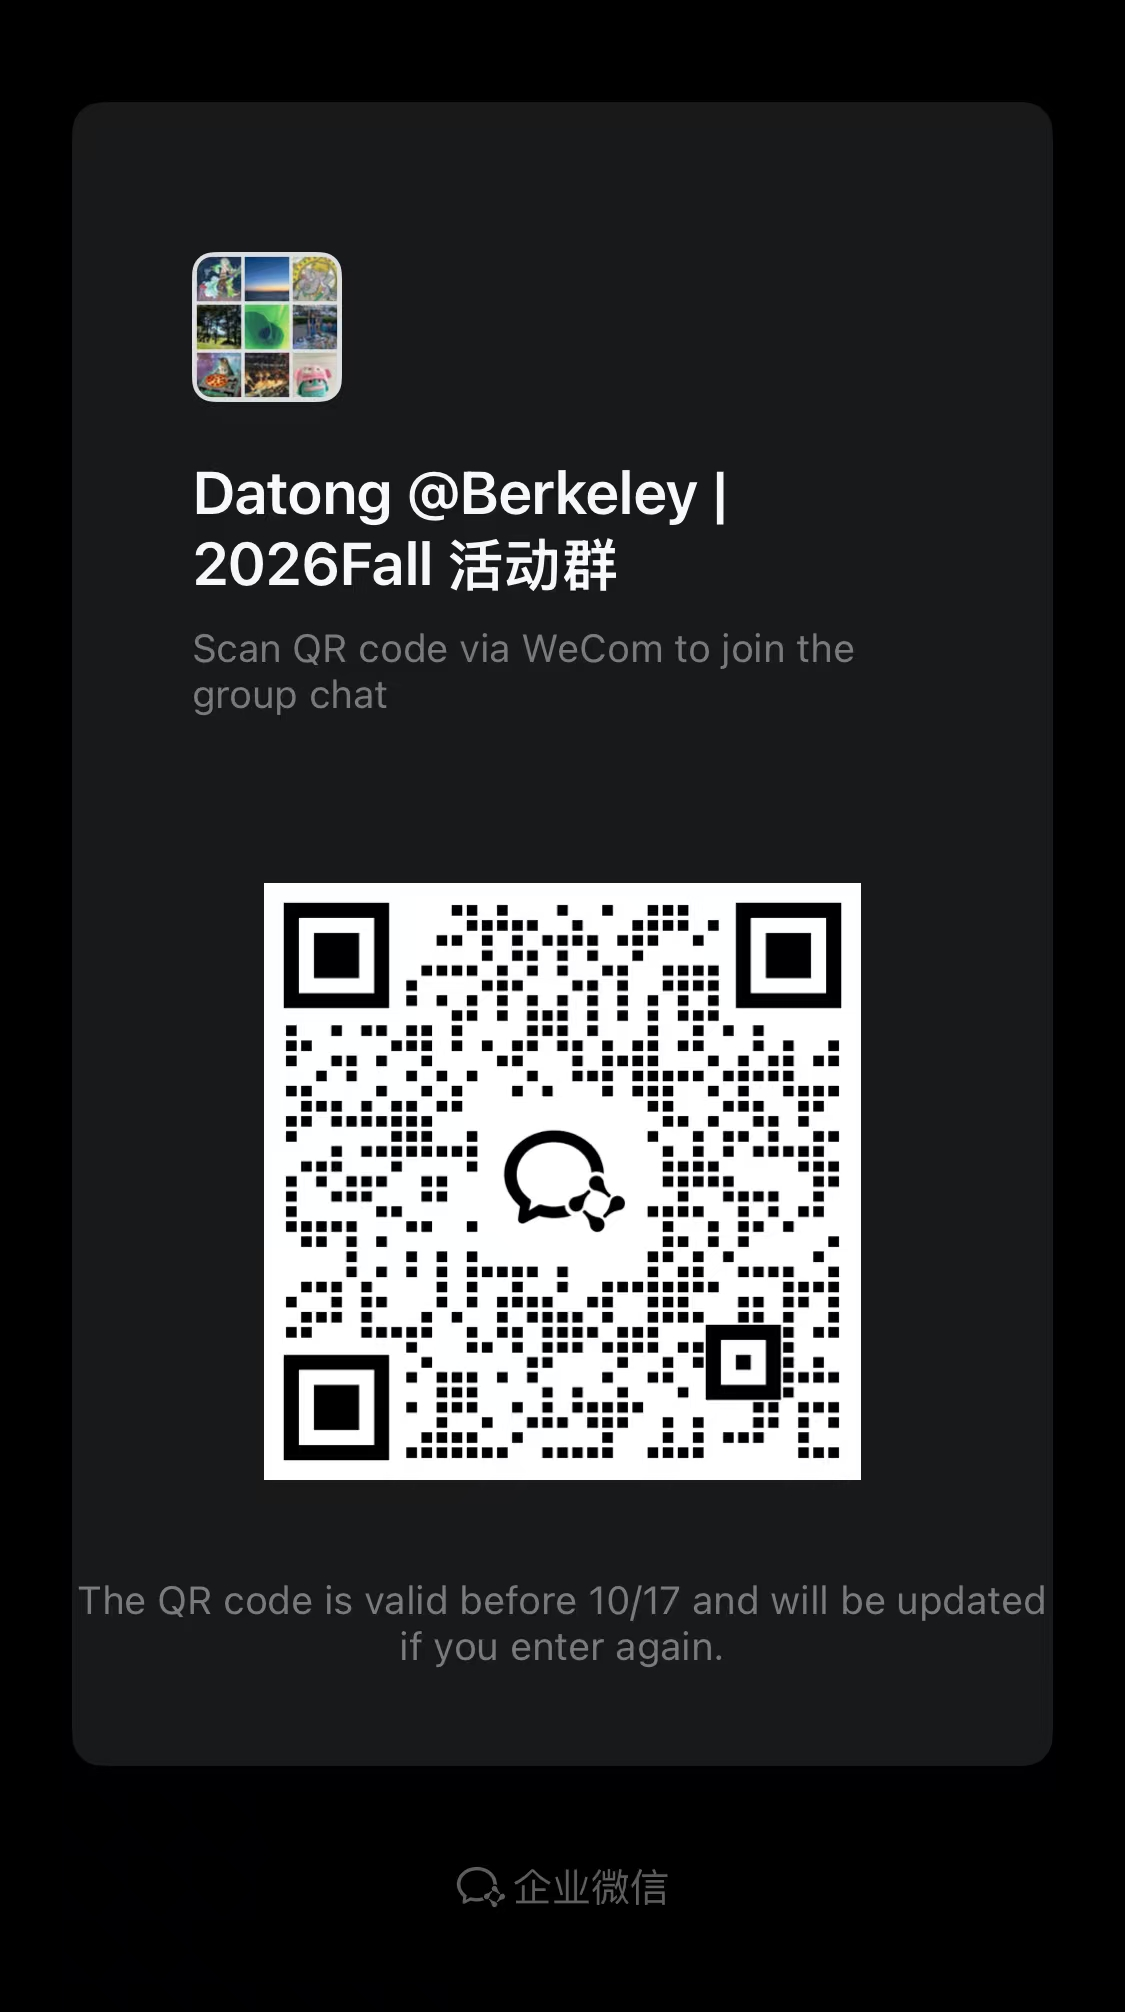
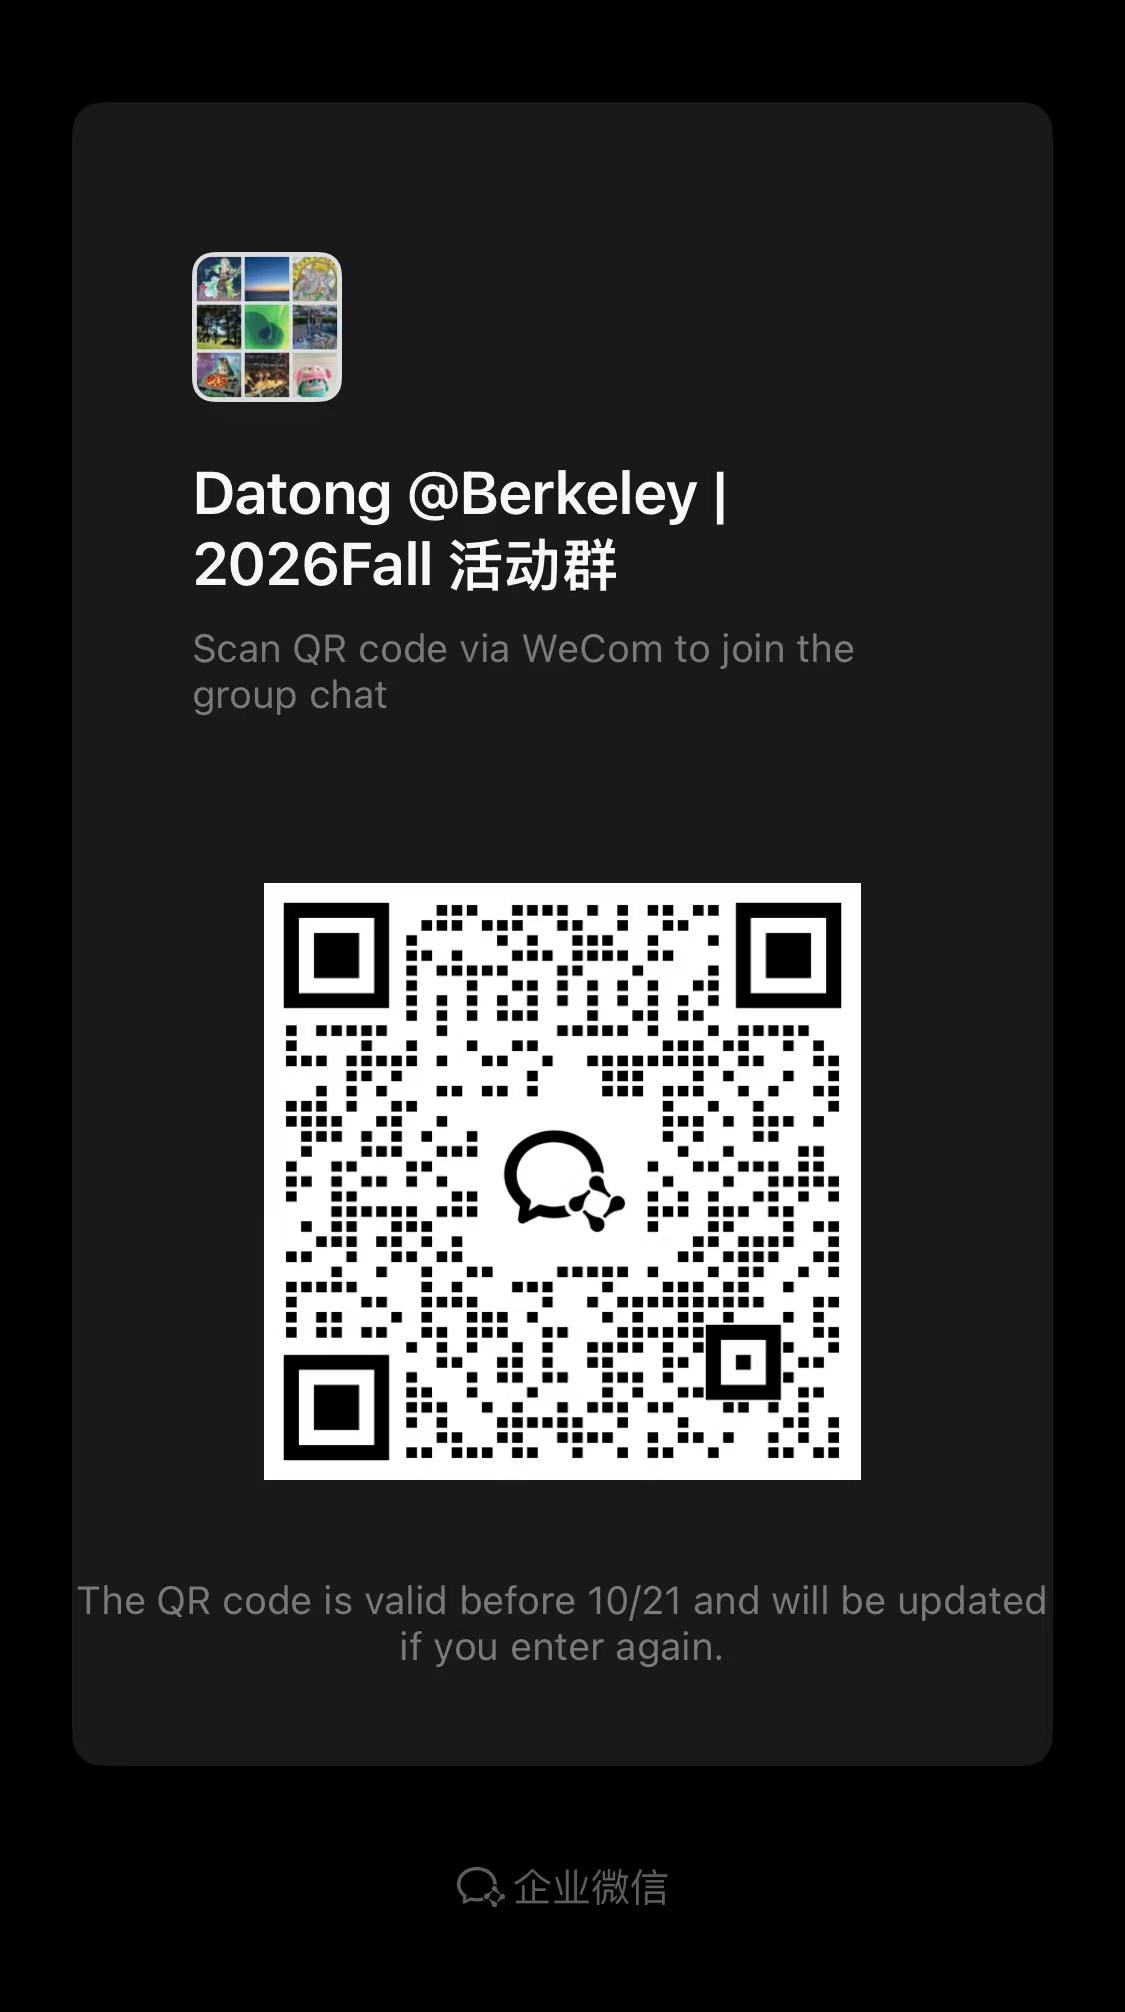
Update activity group QR code for October 21 expiry

Changed region(s): [[0.2489, 0.4314, 0.7467, 0.7396], [0.5289, 0.7704, 0.5911, 0.8012]]

diff --git a/index.html b/index.html
@@ -12,7 +12,7 @@
 		<link rel="preconnect" href="https://fonts.googleapis.com" />
 <link rel="preconnect" href="https://fonts.gstatic.com" crossorigin />
 		<link href="https://fonts.googleapis.com/css2?family=Cinzel:wght@600&family=Inter:wght@400;600&family=Noto+Serif+SC:wght@400;600&family=Source+Sans+3:wght@300;400;600&family=Source+Serif+4:wght@600&display=swap" rel="stylesheet" />
-<link rel="stylesheet" href="assets/css/main.css?v=20261010-cleanup" />
+<link rel="stylesheet" href="assets/css/main.css?v=20261014-cleanup" />
 		<noscript><link rel="stylesheet" href="assets/css/noscript.css" /></noscript>
 	</head>
 	<body class="is-preload"><div class="language-switch" aria-label="Language"><span lang="en" aria-current="true">EN</span><span aria-hidden="true">/</span><a href="zh.html" lang="zh-Hans">中文</a></div>
@@ -95,7 +95,7 @@
 </section>
 <section class="home-about" aria-labelledby="home-about-title"><div><p class="home-eyebrow">About Datong</p><h2 id="home-about-title">Different perspectives. Shared curiosity.</h2><p>We welcome undergraduates, graduate students, and researchers across disciplines, united by an interest in China and East Asia.</p><p>Our activities grow around members’ interests, creating space for critical inquiry and interdisciplinary learning.</p><a href="#about" class="home-text-link">About the society →</a></div></section><section class="home-connect" aria-labelledby="home-connect-title">
 <div><p class="home-eyebrow">Stay connected</p><h2 id="home-connect-title">Join the conversation.</h2><p>Receive event announcements and society updates by email.</p></div>
-<div class="home-connect-actions"><a href="https://forms.gle/zb6QiVZAaBfSrQTj8" target="_blank" rel="noopener noreferrer" class="button primary">Join the mailing list</a><a href="images/qr/qr-activity-group.jpg?v=20261010" target="_blank" rel="noopener noreferrer" class="home-text-link">Activity group · 活动群 ↗</a><a href="#contact" class="home-text-link">Contact Us →</a></div>
+<div class="home-connect-actions"><a href="https://forms.gle/zb6QiVZAaBfSrQTj8" target="_blank" rel="noopener noreferrer" class="button primary">Join the mailing list</a><a href="images/qr/qr-activity-group.jpg?v=20261014" target="_blank" rel="noopener noreferrer" class="home-text-link">Activity group · 活动群 ↗</a><a href="#contact" class="home-text-link">Contact Us →</a></div>
 </section>
 </article>
 <article id="resources">
@@ -427,12 +427,12 @@
 								<section class="qr-section">
 									<h3>活动群<span style="font-size:0.7rem;opacity:0.55;letter-spacing:0.1rem;margin-left:0.5rem;">DATONG · FALL 2026</span></h3>
 									<p class="qr-lead" data-zh="activity-intro">
-										Scan with WeCom to join the <strong>Datong 2026Fall Activity Group</strong> for event announcements and discussions. This QR code is valid before October 17; please return for an updated code from October 17.<br><br>
-										使用企业微信扫码加入 <strong>Datong 2026Fall 活动群</strong>，获取活动通知并参与交流。此二维码在 10 月 17 日前有效；之后请返回本页查看更新的二维码。
+										Scan with WeCom to join the <strong>Datong 2026Fall Activity Group</strong> for event announcements and discussions. This QR code is valid before October 21; please return for an updated code from October 21.<br><br>
+										使用企业微信扫码加入 <strong>Datong 2026Fall 活动群</strong>，获取活动通知并参与交流。此二维码在 10 月 21 日前有效；之后请返回本页查看更新的二维码。
 									</p>
 									<div class="qr-grid">
-										<a href="images/qr/qr-activity-group.jpg?v=20261010" target="_blank" rel="noopener" class="qr-card">
-											<div class="qr-img"><img loading="lazy" decoding="async" src="images/qr/qr-activity-group.jpg?v=20261010" alt="Datong 2026Fall 活动群企业微信二维码" /></div>
+										<a href="images/qr/qr-activity-group.jpg?v=20261014" target="_blank" rel="noopener" class="qr-card">
+											<div class="qr-img"><img loading="lazy" decoding="async" src="images/qr/qr-activity-group.jpg?v=20261014" alt="Datong 2026Fall 活动群企业微信二维码" /></div>
 											<div class="qr-name">Datong 2026Fall 活动群</div>
 											<div class="qr-en">WeCom · Activity Group</div>
 										</a>
@@ -474,7 +474,7 @@
 					</div>
 
 				<!-- Footer -->
-					<footer class="site-footer" id="footer"><div class="wrap footer-grid"><div class="footer-identity"><p class="footer-title">DATONG <span lang="zh-Hans">大同学社</span></p><p>Society of China Studies<br>University of California, Berkeley<br>2495 Bancroft Way, Berkeley, CA 94720</p><a class="footer-email" href="mailto:datongsociety@gmail.com">datongsociety@gmail.com ↗</a></div><div><h2 class="footer-heading">Explore</h2><ul class="footer-list"><li><a href="#about">About the society</a></li><li><a href="#workshops">Workshops &amp; programs</a></li><li><a href="#events">Public events</a></li><li><a href="#resources">Courses &amp; resources</a></li><li><a href="collaboration.html">Collaboration</a></li></ul></div><div><h2 class="footer-heading">Stay connected</h2><ul class="footer-list social-links" aria-label="Social media and community links"><li><a href="https://www.instagram.com/datong_society/" target="_blank" rel="noopener noreferrer">Instagram ↗</a></li><li><a href="https://github.com/datong-society-cal/Datong-Society" target="_blank" rel="noopener noreferrer">GitHub ↗</a></li><li><a href="images/qr/qr-wechat-official.jpg" target="_blank" rel="noopener noreferrer">WeChat · 微信公众号 ↗</a></li><li><a href="https://callink.berkeley.edu/organization/datongsocietyofchinastudies" target="_blank" rel="noopener noreferrer">CalLink ↗</a></li><li><a href="https://forms.gle/zb6QiVZAaBfSrQTj8" target="_blank" rel="noopener noreferrer">Mailing list ↗</a></li></ul></div></div><div class="wrap footer-bottom"><div><p>© Datong Society of China Studies. All Rights Reserved. · Updated Oct 10, 2026</p><p class="disclaimer">We are a student group acting independently of the University of California. We take full responsibility for our organization and this web site.</p></div><a href="https://www.ocf.berkeley.edu/" target="_blank" rel="noopener noreferrer"><img src="images/brand/ocf-hosted-penguin-dark.svg" alt="Hosted by the OCF" loading="lazy" decoding="async"></a></div></footer>
+					<footer class="site-footer" id="footer"><div class="wrap footer-grid"><div class="footer-identity"><p class="footer-title">DATONG <span lang="zh-Hans">大同学社</span></p><p>Society of China Studies<br>University of California, Berkeley<br>2495 Bancroft Way, Berkeley, CA 94720</p><a class="footer-email" href="mailto:datongsociety@gmail.com">datongsociety@gmail.com ↗</a></div><div><h2 class="footer-heading">Explore</h2><ul class="footer-list"><li><a href="#about">About the society</a></li><li><a href="#workshops">Workshops &amp; programs</a></li><li><a href="#events">Public events</a></li><li><a href="#resources">Courses &amp; resources</a></li><li><a href="collaboration.html">Collaboration</a></li></ul></div><div><h2 class="footer-heading">Stay connected</h2><ul class="footer-list social-links" aria-label="Social media and community links"><li><a href="https://www.instagram.com/datong_society/" target="_blank" rel="noopener noreferrer">Instagram ↗</a></li><li><a href="https://github.com/datong-society-cal/Datong-Society" target="_blank" rel="noopener noreferrer">GitHub ↗</a></li><li><a href="images/qr/qr-wechat-official.jpg" target="_blank" rel="noopener noreferrer">WeChat · 微信公众号 ↗</a></li><li><a href="https://callink.berkeley.edu/organization/datongsocietyofchinastudies" target="_blank" rel="noopener noreferrer">CalLink ↗</a></li><li><a href="https://forms.gle/zb6QiVZAaBfSrQTj8" target="_blank" rel="noopener noreferrer">Mailing list ↗</a></li></ul></div></div><div class="wrap footer-bottom"><div><p>© Datong Society of China Studies. All Rights Reserved. · Updated Oct 14, 2026</p><p class="disclaimer">We are a student group acting independently of the University of California. We take full responsibility for our organization and this web site.</p></div><a href="https://www.ocf.berkeley.edu/" target="_blank" rel="noopener noreferrer"><img src="images/brand/ocf-hosted-penguin-dark.svg" alt="Hosted by the OCF" loading="lazy" decoding="async"></a></div></footer>
 
 			</div>
 
@@ -513,9 +513,9 @@
 			</div>
 
 		<!-- Scripts -->
-			<script src="assets/js/main.js?v=20261010-language" defer></script>
-			<script src="assets/js/effects.js?v=20261010-language" defer></script>
+			<script src="assets/js/main.js?v=20261014-language" defer></script>
+			<script src="assets/js/effects.js?v=20261014-language" defer></script>
 
 
-	<script src="assets/js/language.js?v=20261010" defer></script></body>
+	<script src="assets/js/language.js?v=20261014" defer></script></body>
 </html>

diff --git a/zh.html b/zh.html
@@ -12,7 +12,7 @@
 		<link rel="preconnect" href="https://fonts.googleapis.com">
 <link rel="preconnect" href="https://fonts.gstatic.com" crossorigin>
 		<link href="https://fonts.googleapis.com/css2?family=Cinzel:wght@600&amp;family=Inter:wght@400;600&amp;family=Noto+Serif+SC:wght@400;600&amp;family=Source+Sans+3:wght@300;400;600&amp;family=Source+Serif+4:wght@600&amp;display=swap" rel="stylesheet">
-<link rel="stylesheet" href="assets/css/main.css?v=20261010-cleanup">
+<link rel="stylesheet" href="assets/css/main.css?v=20261014-cleanup">
 		<noscript><link rel="stylesheet" href="assets/css/noscript.css"></noscript>
 	</head>
 	<body class="is-preload"><div class="language-switch" aria-label="语言切换"><span lang="zh-Hans" aria-current="true">中文</span><span aria-hidden="true">/</span><a href="index.html" lang="en">EN</a></div>
@@ -95,7 +95,7 @@
 </section>
 <section class="home-about" aria-labelledby="home-about-title"><div><p class="home-eyebrow">关于大同 · About Datong</p><h2 id="home-about-title">多元视角，共同求知。</h2><p>欢迎本科生、研究生与研究者。学科各异，志趣相同：中国与东亚。</p><p>活动随社友兴趣而生，为批判性探究与跨学科学习留出空间。</p><a href="#about" class="home-text-link">了解学社 →</a></div></section><section class="home-connect" aria-labelledby="home-connect-title">
 <div><p class="home-eyebrow">保持联系</p><h2 id="home-connect-title">加入对话。</h2><p>通过邮件接收活动通知与学社动态。</p></div>
-<div class="home-connect-actions"><a href="https://forms.gle/zb6QiVZAaBfSrQTj8" target="_blank" rel="noopener noreferrer" class="button primary">订阅邮件 · Mailing List</a><a href="images/qr/qr-activity-group.jpg?v=20261010" target="_blank" rel="noopener noreferrer" class="home-text-link">活动群 · Activity Group ↗</a><a href="#contact" class="home-text-link">联系我们 →</a></div>
+<div class="home-connect-actions"><a href="https://forms.gle/zb6QiVZAaBfSrQTj8" target="_blank" rel="noopener noreferrer" class="button primary">订阅邮件 · Mailing List</a><a href="images/qr/qr-activity-group.jpg?v=20261014" target="_blank" rel="noopener noreferrer" class="home-text-link">活动群 · Activity Group ↗</a><a href="#contact" class="home-text-link">联系我们 →</a></div>
 </section>
 </article>
 <article id="resources">
@@ -426,10 +426,10 @@
 								<!-- Activity group QR code -->
 								<section class="qr-section">
 									<h3>活动群<span style="font-size:0.7rem;opacity:0.55;letter-spacing:0.1rem;margin-left:0.5rem;">DATONG · FALL 2026</span></h3>
-									<p class="qr-lead">使用企业微信扫码加入 <strong>Datong 2026Fall 活动群</strong>，获取活动通知并参与交流。二维码在 10 月 17 日前有效；之后请返回本页查看更新。</p>
+									<p class="qr-lead">使用企业微信扫码加入 <strong>Datong 2026Fall 活动群</strong>，获取活动通知并参与交流。二维码在 10 月 21 日前有效；之后请返回本页查看更新。</p>
 									<div class="qr-grid">
-										<a href="images/qr/qr-activity-group.jpg?v=20261010" target="_blank" rel="noopener" class="qr-card">
-											<div class="qr-img"><img loading="lazy" decoding="async" src="images/qr/qr-activity-group.jpg?v=20261010" alt="Datong 2026Fall 活动群企业微信二维码"></div>
+										<a href="images/qr/qr-activity-group.jpg?v=20261014" target="_blank" rel="noopener" class="qr-card">
+											<div class="qr-img"><img loading="lazy" decoding="async" src="images/qr/qr-activity-group.jpg?v=20261014" alt="Datong 2026Fall 活动群企业微信二维码"></div>
 											<div class="qr-name">Datong 2026Fall 活动群</div>
 											<div class="qr-en">企业微信 · Activity Group</div>
 										</a>
@@ -471,7 +471,7 @@
 					</div>
 
 				<!-- Footer -->
-					<footer class="site-footer" id="footer"><div class="wrap footer-grid"><div class="footer-identity"><p class="footer-title">DATONG <span lang="zh-Hans">大同学社</span></p><p>中国研究学社 · Society of China Studies<br>加州大学伯克利分校 · UC Berkeley<br>2495 Bancroft Way, Berkeley, CA 94720</p><a class="footer-email" href="mailto:datongsociety@gmail.com">datongsociety@gmail.com ↗</a></div><div><h2 class="footer-heading">探索大同</h2><ul class="footer-list"><li><a href="#about">关于学社</a></li><li><a href="#workshops">工作坊与项目</a></li><li><a href="#events">公共活动</a></li><li><a href="#resources">课程与资源</a></li><li><a href="collaboration-zh.html">合作</a></li></ul></div><div><h2 class="footer-heading">保持联系</h2><ul class="footer-list social-links" aria-label="Social media and community links"><li><a href="https://www.instagram.com/datong_society/" target="_blank" rel="noopener noreferrer">Instagram ↗</a></li><li><a href="https://github.com/datong-society-cal/Datong-Society" target="_blank" rel="noopener noreferrer">GitHub ↗</a></li><li><a href="images/qr/qr-wechat-official.jpg" target="_blank" rel="noopener noreferrer">微信公众号 · WeChat ↗</a></li><li><a href="https://callink.berkeley.edu/organization/datongsocietyofchinastudies" target="_blank" rel="noopener noreferrer">CalLink ↗</a></li><li><a href="https://forms.gle/zb6QiVZAaBfSrQTj8" target="_blank" rel="noopener noreferrer">邮件订阅 ↗</a></li></ul></div></div><div class="wrap footer-bottom"><div><p>© 大同学社 · Datong Society. 保留所有权利。· 更新于 2026 年 10 月 10 日</p><p class="disclaimer">我们是独立于加州大学运营的学生组织，对本组织及本网站承担全部责任。</p></div><a href="https://www.ocf.berkeley.edu/" target="_blank" rel="noopener noreferrer"><img src="images/brand/ocf-hosted-penguin-dark.svg" alt="Hosted by the OCF" loading="lazy" decoding="async"></a></div></footer>
+					<footer class="site-footer" id="footer"><div class="wrap footer-grid"><div class="footer-identity"><p class="footer-title">DATONG <span lang="zh-Hans">大同学社</span></p><p>中国研究学社 · Society of China Studies<br>加州大学伯克利分校 · UC Berkeley<br>2495 Bancroft Way, Berkeley, CA 94720</p><a class="footer-email" href="mailto:datongsociety@gmail.com">datongsociety@gmail.com ↗</a></div><div><h2 class="footer-heading">探索大同</h2><ul class="footer-list"><li><a href="#about">关于学社</a></li><li><a href="#workshops">工作坊与项目</a></li><li><a href="#events">公共活动</a></li><li><a href="#resources">课程与资源</a></li><li><a href="collaboration-zh.html">合作</a></li></ul></div><div><h2 class="footer-heading">保持联系</h2><ul class="footer-list social-links" aria-label="Social media and community links"><li><a href="https://www.instagram.com/datong_society/" target="_blank" rel="noopener noreferrer">Instagram ↗</a></li><li><a href="https://github.com/datong-society-cal/Datong-Society" target="_blank" rel="noopener noreferrer">GitHub ↗</a></li><li><a href="images/qr/qr-wechat-official.jpg" target="_blank" rel="noopener noreferrer">微信公众号 · WeChat ↗</a></li><li><a href="https://callink.berkeley.edu/organization/datongsocietyofchinastudies" target="_blank" rel="noopener noreferrer">CalLink ↗</a></li><li><a href="https://forms.gle/zb6QiVZAaBfSrQTj8" target="_blank" rel="noopener noreferrer">邮件订阅 ↗</a></li></ul></div></div><div class="wrap footer-bottom"><div><p>© 大同学社 · Datong Society. 保留所有权利。· 更新于 2026 年 10 月 14 日</p><p class="disclaimer">我们是独立于加州大学运营的学生组织，对本组织及本网站承担全部责任。</p></div><a href="https://www.ocf.berkeley.edu/" target="_blank" rel="noopener noreferrer"><img src="images/brand/ocf-hosted-penguin-dark.svg" alt="Hosted by the OCF" loading="lazy" decoding="async"></a></div></footer>
 
 			</div>
 
@@ -510,9 +510,9 @@
 			</div>
 
 		<!-- Scripts -->
-			<script src="assets/js/main.js?v=20261010-language" defer></script>
-			<script src="assets/js/effects.js?v=20261010-language" defer></script>
+			<script src="assets/js/main.js?v=20261014-language" defer></script>
+			<script src="assets/js/effects.js?v=20261014-language" defer></script>
 
 
-	<script src="assets/js/language.js?v=20261010" defer></script></body>
+	<script src="assets/js/language.js?v=20261014" defer></script></body>
 </html>
